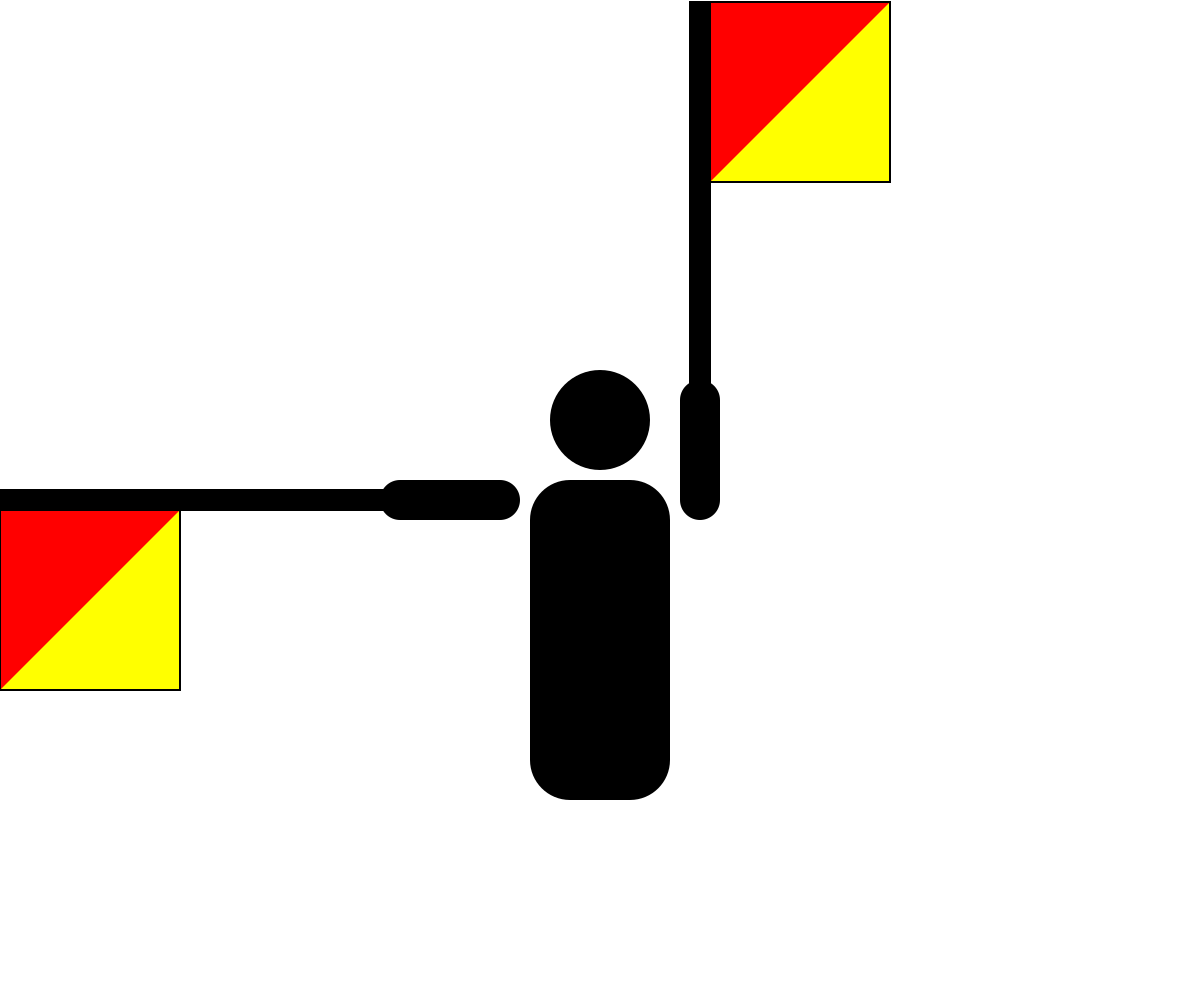
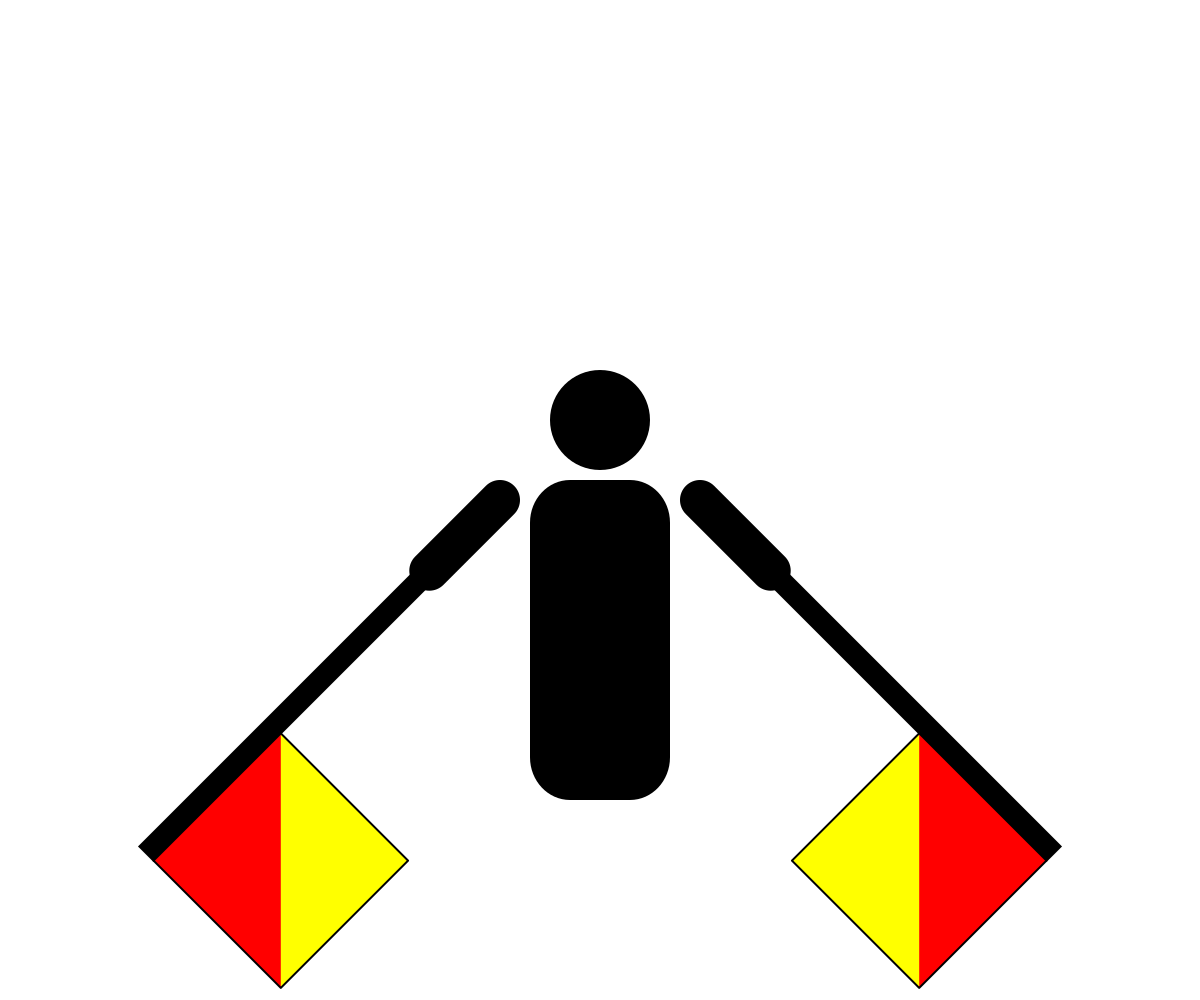
no adaptation

Changed region(s): [[0.555, 0.0, 0.8942, 0.992], [0.0, 0.465, 0.4317, 0.992]]

diff --git a/game/gameplay_section.py b/game/gameplay_section.py
@@ -36,12 +36,7 @@ class Gameplay:
         self.game_clock = game_clock
         self.audio_manager = audio_manager
         self.hard_mode = hard_mode
-        # # --- Debug mode (terminal display from the initial code back in september/october) ---
-        # self.debug_terminal = False
-        # self.font = pygame.font.SysFont("Consolas", 18)
-        # self.logs = []
-        # self.max_logs = 25
-        # self.last_ground_hit_time = time.time()
+        self.adaptation_enabled = False  # Toggle for adaptation: True = BKT adaptive, False = random/fixed
 
         # --- Grid computation ---
         self.cell_size = self.rect.width // self.grid_size
@@ -148,6 +143,7 @@ class Gameplay:
             ignore_correct_after_hint=True,
             use_level_progression=True,
             level_definitions=level_definitions,
+            adaptation_enabled=self.adaptation_enabled,
             bkt_params={
                 'p_l0': 0.0, # Initial probability of knowing
                 'p_t': 0.2, # Transition/learning probability
@@ -179,7 +175,8 @@ class Gameplay:
         self.bkt_snapshot_timer = 0.0
 
         self.missiles_destroyed_this_level = 0
-        self.nb_missiles_to_destroy = 10
+        self.missiles_per_level = [10, 20, 30, 30, 30, 30, 30, 30, 30]  # Required missiles for each level (0-8)
+        self.nb_missiles_to_destroy = self.missiles_per_level[0]
 
     # # -------------------------------------------------------
     # #                     Terminal Logging helper
@@ -338,17 +335,36 @@ class Gameplay:
         
         # Check for level advancement (if using BKT with level progression)
         if isinstance(self.spawner, BKTPickSpawner) and self.spawner.use_level_progression:
-            level_advancement = self.spawner.check_level_advancement()
-            if level_advancement is not None and self.missiles_destroyed_this_level >= self.nb_missiles_to_destroy:
-                next_level, new_letters = level_advancement
-                # Trigger level transition event
-                level_transition_event = pygame.event.Event(
-                    pygame.USEREVENT + 20, # Custom event for level transition
-                    level=next_level,
-                    new_letters=new_letters
-                )
-                pygame.event.post(level_transition_event)
-                self.missiles_destroyed_this_level = 0
+            # When adaptation disabled, advance based only on missiles destroyed
+            if not self.adaptation_enabled:
+                current_required = self.missiles_per_level[self.spawner.current_level]
+                if self.missiles_destroyed_this_level >= current_required and self.spawner.current_level < len(self.spawner.level_definitions) - 1:
+                    next_level = self.spawner.current_level + 1
+                    new_letters = self.spawner.level_definitions[next_level]
+                    # Trigger level transition event
+                    level_transition_event = pygame.event.Event(
+                        pygame.USEREVENT + 20, # Custom event for level transition
+                        level=next_level,
+                        new_letters=new_letters
+                    )
+                    pygame.event.post(level_transition_event)
+                    self.nb_missiles_to_destroy = self.missiles_per_level[next_level]
+                    self.missiles_destroyed_this_level = 0
+            else:
+                # Original adaptive logic
+                current_required = self.missiles_per_level[self.spawner.current_level]
+                level_advancement = self.spawner.check_level_advancement()
+                if level_advancement is not None and self.missiles_destroyed_this_level >= current_required:
+                    next_level, new_letters = level_advancement
+                    # Trigger level transition event
+                    level_transition_event = pygame.event.Event(
+                        pygame.USEREVENT + 20, # Custom event for level transition
+                        level=next_level,
+                        new_letters=new_letters
+                    )
+                    pygame.event.post(level_transition_event)
+                    self.nb_missiles_to_destroy = self.missiles_per_level[next_level]
+                    self.missiles_destroyed_this_level = 0
 
         self.missiles = [m for m in self.missiles if m.alive]
 

diff --git a/game/missiles/spawner_bkt_pick.py b/game/missiles/spawner_bkt_pick.py
@@ -21,7 +21,8 @@ class BKTPickSpawner(MissileSpawner):
         ignore_correct_after_hint,
         bkt_params, # dict with BKT parameters (p_l0, p_t, p_s, p_g)
         use_level_progression, # whether to use level-based progression
-        level_definitions # list of letter groups for each level
+        level_definitions, # list of letter groups for each level
+        adaptation_enabled=True # whether to use adaptive selection and progression
     ):
         super().__init__(gameplay)
         
@@ -40,6 +41,7 @@ class BKTPickSpawner(MissileSpawner):
         self.level_definitions = level_definitions if level_definitions else []
         self.current_level = 0
         self.unlocked_letters = []
+        self.adaptation_enabled = adaptation_enabled
         
         # If using level progression, initialize with first level
         if self.use_level_progression and self.level_definitions:
@@ -99,8 +101,8 @@ class BKTPickSpawner(MissileSpawner):
 
         self.bkt.update_decay(dt)
 
-        # Only auto-increase letters if NOT using level progression
-        if not self.use_level_progression:
+        # Only auto-increase letters if NOT using level progression AND adaptation is enabled
+        if not self.use_level_progression and self.adaptation_enabled:
             if self.bkt.get_lowest_overall_knowledge() >= self.overall_knowledge_threshold:
                 # increase letter pool if possible
                 if self.number_of_letters_tested < len(self.available_letters):
@@ -112,6 +114,20 @@ class BKTPickSpawner(MissileSpawner):
             self.spawn_adaptive_missile()
     
     def select_letter_adaptive(self):
+        if not self.adaptation_enabled:
+            # Random selection when adaptation disabled
+            free_letters = self.get_free_letters()
+            if free_letters is None: return None
+            
+            if self.use_level_progression:
+                free_letters = list(set(free_letters) & set(self.unlocked_letters))
+            else:
+                free_letters = list(set(free_letters) & set(self.available_letters[:self.number_of_letters_tested]))
+            
+            if not free_letters: return None
+            return random.choice(free_letters)
+        
+        # Original adaptive logic
         probs_dict = self.get_selection_probabilities()
         if not probs_dict:
             return None
@@ -127,6 +143,10 @@ class BKTPickSpawner(MissileSpawner):
     
     def select_hint_timing(self, letter):
         """ Show hints based on P(K): lower knowledge = earlier hints, higher = later """
+        if not self.adaptation_enabled:
+            # Fixed random hint timing when adaptation disabled
+            return random.uniform(self.hint_min, self.hint_max)
+        
         p_k = self.bkt.get_knowledge(letter)
         base_hint = self.hint_min + p_k * (self.hint_max - self.hint_min)
         # randomness = random.uniform(-0.1, 0.1)

diff --git a/game/game_setup.py b/game/game_setup.py
@@ -10,6 +10,7 @@ from game.UI.webcam_section import WebcamPanel
 from game.gameplay_section import Gameplay
 from game.menus.pause_screen import PauseScreen
 from game.menus.level_transition_screen import LevelTransitionScreen
+from game.missiles.spawner_bkt_pick import BKTPickSpawner
 
 
 def setup_game(screen, current_profile, profile_manager):
@@ -81,7 +82,7 @@ def load_profile_data(current_profile, gameplay_section, status_section, level_t
     # P(K) always starts at P(L0) - no loading from profile
     
     # Load success_score from profile
-    if current_profile.get('success_score'):
+    if isinstance(gameplay_section.spawner, BKTPickSpawner) and current_profile.get('success_score'):
         print("Loading success_score from profile...")
         for letter, score in current_profile['success_score'].items():
             if letter in gameplay_section.spawner.bkt.success_score:
@@ -89,16 +90,20 @@ def load_profile_data(current_profile, gameplay_section, status_section, level_t
     
     # Load current level from profile
     saved_level = current_profile.get('current_level', 0)
-    if saved_level > 0 and gameplay_section.spawner.use_level_progression:
+    if isinstance(gameplay_section.spawner, BKTPickSpawner) and saved_level > 0 and gameplay_section.spawner.use_level_progression:
         print(f"Restoring to level {saved_level}...")
         gameplay_section.spawner.advance_to_level(saved_level)
+        gameplay_section.nb_missiles_to_destroy = gameplay_section.missiles_per_level[saved_level]
     
     # Stats (lives, bombs, score) are reset every session - no loading
     
     # Initialize first level transition (only for new players)
-    if gameplay_section.spawner.use_level_progression and gameplay_section.spawner.level_definitions and saved_level == 0:
+    if isinstance(gameplay_section.spawner, BKTPickSpawner) and gameplay_section.spawner.use_level_progression and gameplay_section.spawner.level_definitions and saved_level == 0:
         first_level_letters = gameplay_section.spawner.level_definitions[0]
         level_transition_screen.start_transition(1, first_level_letters, [])
         gameplay_logger.level_transition_started(1, first_level_letters)
     
-    print(f"Starting at level {gameplay_section.spawner.get_current_level() + 1} with letters: {gameplay_section.spawner.unlocked_letters}")
+    if isinstance(gameplay_section.spawner, BKTPickSpawner):
+        print(f"Starting at level {gameplay_section.spawner.get_current_level() + 1} with letters: {gameplay_section.spawner.unlocked_letters}")
+    else:
+        print("Starting with random spawner")

diff --git a/assets/assets.py b/assets/assets.py
@@ -6,8 +6,8 @@ import time
 
 # --- PARAMETERS ---
 
-SEMAPHORES_PATH = "assets/semaphores/"
-# SEMAPHORES_PATH = "assets/semaphores_randomized/"
+# SEMAPHORES_PATH = "assets/semaphores/"
+SEMAPHORES_PATH = "assets/semaphores_randomized/"
 
 # --- Pygame setup ---
 pygame.init()
